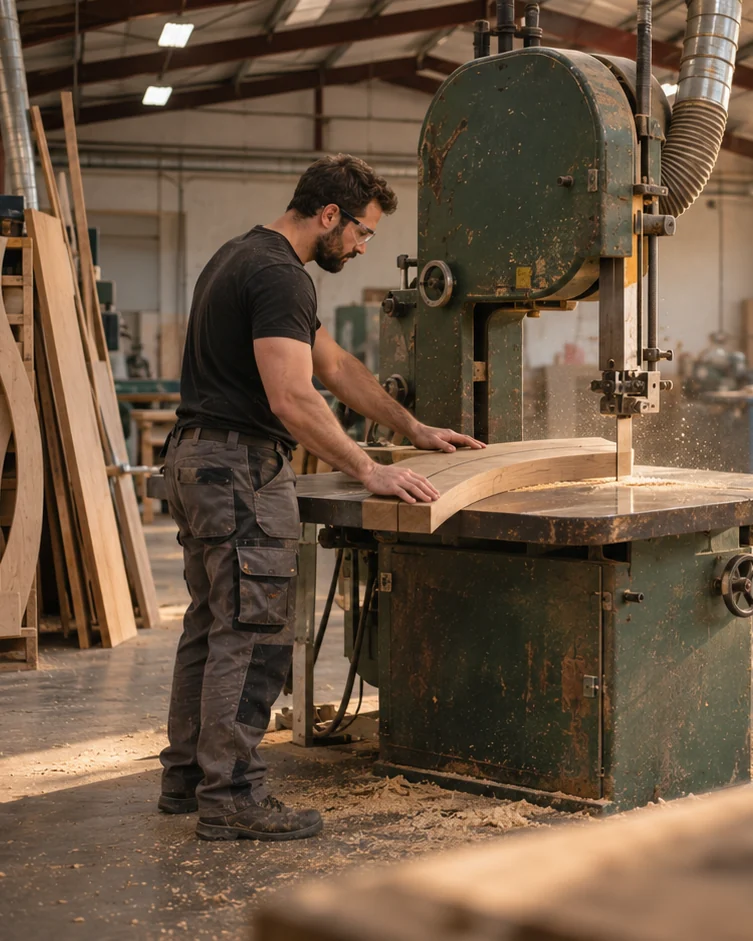
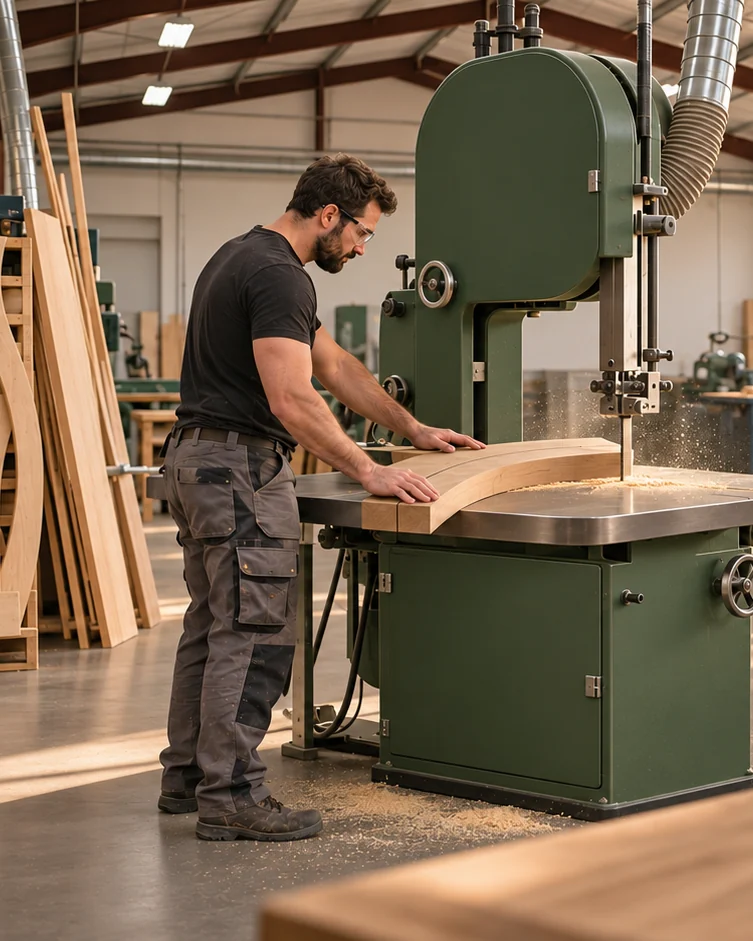
Tømrer: billedformer (brædder, forskudt, høvlspån, skråsnit) og nye værkstedsfotos på Om, Ydelser og Kontakt

diff --git a/app/toemrer/toemrer.css b/app/toemrer/toemrer.css
@@ -2051,3 +2051,127 @@ main:not(:has(.tm-afslutning)) + .tm-footer .tm-footer-gitter {
     transition: none !important;
   }
 }
+
+/* Kontakt: bredt værkstedsfoto under formularen (Emil 25. nov.) */
+.tm-kontakt-foto {
+  margin-top: clamp(48px, 7vw, 104px);
+  aspect-ratio: 16 / 7;
+}
+
+.tm-kontakt-foto > img {
+  object-position: 50% 30%;
+}
+
+@media (max-width: 760px) {
+  .tm-kontakt-foto {
+    aspect-ratio: 4 / 3;
+  }
+
+  .tm-kontakt-foto > img {
+    object-position: 62% 30%;
+  }
+}
+
+/* Ydelser, mindre opgaver: listen i to kolonner til venstre og værkstedsfotoet til højre (Emil 25. nov.) */
+.tm-ogsaa-gitter {
+  display: grid;
+  grid-template-columns: repeat(12, 1fr);
+  gap: 40px 24px;
+  align-items: start;
+}
+
+.tm-ogsaa-gitter .tm-ogsaa {
+  grid-column: 1 / 8;
+  grid-template-columns: repeat(2, 1fr);
+}
+
+.tm-ogsaa-foto {
+  grid-column: 9 / 13;
+  aspect-ratio: 4 / 5;
+}
+
+@media (max-width: 900px) {
+  .tm-ogsaa-gitter .tm-ogsaa,
+  .tm-ogsaa-foto {
+    grid-column: 1 / -1;
+  }
+
+  .tm-ogsaa-foto {
+    aspect-ratio: 4 / 3;
+  }
+}
+
+@media (max-width: 700px) {
+  .tm-ogsaa-gitter .tm-ogsaa {
+    grid-template-columns: 1fr;
+  }
+}
+
+/* Billedformer på de store billeder (Emils valg 25. nov.): brædder på hero-videoen, forskudt snit på Om-fotoet,
+   liggende høvlspån på værkstedet og skråsnit på Kontakt-fotoet. Gitre og før/efter-skyderen er stadig firkantede.
+   Skitser af alle 18 former ligger i Kunder/design skabeloner/billedformer. */
+
+/* Tre forskudte brædder med luft imellem. Lavet som maske, så heroens åbne-animation (clip-path) stadig virker. */
+.tm-form-braedder {
+  --brat: 31.6%;
+  --hoejde: 92%;
+  background: none;
+}
+
+/* Masken sidder på selve videoen/fotoet, så skiltet og pauseknappen ikke bliver skåret over */
+.tm-form-braedder > video,
+.tm-form-braedder > picture > img,
+.tm-form-braedder > img {
+  -webkit-mask:
+    linear-gradient(#000 0 0) left bottom / var(--brat) var(--hoejde) no-repeat,
+    linear-gradient(#000 0 0) center top / var(--brat) var(--hoejde) no-repeat,
+    linear-gradient(#000 0 0) right bottom / var(--brat) var(--hoejde) no-repeat;
+  mask:
+    linear-gradient(#000 0 0) left bottom / var(--brat) var(--hoejde) no-repeat,
+    linear-gradient(#000 0 0) center top / var(--brat) var(--hoejde) no-repeat,
+    linear-gradient(#000 0 0) right bottom / var(--brat) var(--hoejde) no-repeat;
+}
+
+/* Mobil: brædderne er smalle, så skiltet ligger på tværs i bunden og pauseknappen rykker op i højre bræt */
+@media (max-width: 760px) {
+  .tm-form-braedder .tm-hero-skilt {
+    left: 50%;
+    bottom: 12px;
+    max-width: none;
+    transform: translateX(-50%);
+    white-space: nowrap;
+    background: var(--hvid);
+  }
+
+  .tm-form-braedder .tm-videoknap {
+    top: calc(8% + 12px);
+    bottom: auto;
+  }
+}
+
+/* To halvdele skåret over på skrå og skubbet lidt fra hinanden. Linjen mellem de to dele går frem og tilbage ad samme vej, så den ikke kan ses. */
+.tm-form-forskudt {
+  border-radius: 0;
+  clip-path: polygon(0 0, 59.53% 0, 38.53% 94%, 0 94%, 0 0, 61.47% 6%, 100% 6%, 100% 100%, 40.47% 100%, 61.47% 6%, 0 0);
+}
+
+/* Høvlspån: den store bue sidder øverst til højre */
+.tm-form-hoevlspaan {
+  border-radius: 0 46% 0 0 / 0 62% 0 0;
+}
+
+/* Høvlspån lagt ned: den store bue sidder nederst til højre */
+.tm-form-hoevlspaan-liggende {
+  border-radius: 0 0 46% 0 / 0 0 62% 0;
+}
+
+.tm-form-skraasnit {
+  border-radius: 0;
+  clip-path: polygon(7% 0, 100% 0, 93% 100%, 0 100%);
+}
+
+@media (max-width: 760px) {
+  .tm-form-skraasnit {
+    clip-path: polygon(11% 0, 100% 0, 89% 100%, 0 100%);
+  }
+}

diff --git a/lib/toemrer.ts b/lib/toemrer.ts
@@ -118,10 +118,11 @@ export const foerEfter = [
   { titel: "Køkken", foer: "koekken-foer.jpg", efter: "koekken-efter.jpg", tekst: "Køkken fra firserne skiftet til fronter og bordplade i lys eg." },
 ];
 
-export const projekter = [
-  { titel: "Reol og bænk under skråvindue", type: "Snedkerarbejde", sted: "Silkeborg", aar: 2026, billede: "projekt-1.jpg" },
-  { titel: "Nyt egetræsgulv i stue", type: "Gulv", sted: "Them", aar: 2026, billede: "projekt-2.jpg" },
-  { titel: "Carport i sort træ", type: "Udendørs", sted: "Sejs", aar: 2025, billede: "projekt-3.jpg" },
+// form: valgfri billedform (klassen tm-form-<navn> i toemrer.css). Uden form er billedet firkantet med runde hjørner.
+export const projekter: { titel: string; type: string; sted: string; aar: number; billede: string; form?: string }[] = [
+  { titel: "Reol og bænk under skråvindue", type: "Snedkerarbejde", sted: "Silkeborg", aar: 2026, billede: "projekt-1.jpg", form: "hoevlspaan" },
+  { titel: "Nyt egetræsgulv i stue", type: "Gulv", sted: "Them", aar: 2026, billede: "projekt-2.jpg", form: "braedder" },
+  { titel: "Carport i sort træ", type: "Udendørs", sted: "Sejs", aar: 2025, billede: "projekt-3.jpg", form: "skraasnit" },
   { titel: "Trappe med åbne trin i eg", type: "Snedkerarbejde", sted: "Virklund", aar: 2025, billede: "projekt-4.jpg" },
   { titel: "Nyt tag på parcelhus", type: "Tag", sted: "Kjellerup", aar: 2025, billede: "projekt-5.jpg" },
   { titel: "Havestue med glasparti", type: "Tilbygning", sted: "Silkeborg", aar: 2024, billede: "projekt-6.jpg" },

diff --git a/app/toemrer/page.tsx b/app/toemrer/page.tsx
@@ -50,7 +50,7 @@ export default function ToemrerForside() {
               </Link>
             </div>
           </div>
-          <div className="tm-hero-medie tm-billede">
+          <div className="tm-hero-medie tm-billede tm-form-braedder">
             {heroVideo ? (
               <HeroVideo src={heroVideo} plakat={heroSrc} />
             ) : (
@@ -136,7 +136,7 @@ export default function ToemrerForside() {
               ))}
             </div>
           </div>
-          <div className="tm-om-foto tm-billede" data-vis>
+          <div className="tm-om-foto tm-billede tm-form-forskudt" data-vis>
             <Foto fil={omFirmaet.billede} alt="Tømrermesteren i værkstedet" tone="valnoed" />
           </div>
         </div>
@@ -166,7 +166,7 @@ export default function ToemrerForside() {
           <div className="tm-galleri">
             {projekter.slice(0, 4).map((p, n) => (
               <figure key={p.titel} className="tm-projekt" data-vis style={d(n % 2)}>
-                <div className="tm-billede tm-billede-4-3">
+                <div className={`tm-billede tm-billede-4-3${p.form ? ` tm-form-${p.form}` : ""}`}>
                   <Foto fil={p.billede} alt={p.titel} />
                 </div>
                 <figcaption>

diff --git a/app/toemrer/kontakt/page.tsx b/app/toemrer/kontakt/page.tsx
@@ -3,6 +3,7 @@ import DemoRing from "@/components/toemrer/DemoRing";
 import KontaktFormular from "@/components/toemrer/KontaktFormular";
 import { Kursiv } from "@/components/toemrer/Tekst";
 import { firma, kontaktEmner, sider } from "@/lib/toemrer";
+import Foto from "@/components/toemrer/Foto";
 
 export const metadata: Metadata = { title: "Kontakt" };
 
@@ -60,6 +61,12 @@ export default async function Kontakt({ searchParams }: { searchParams: Promise<
           </div>
           <div className="tm-kontakt-form tm-ind" style={i(3)}>
             <KontaktFormular emner={kontaktEmner} forvalgt={emne} />
+          </div>
+        </div>
+        {/* Bredt værkstedsfoto under formularen (Emil 25. nov.) */}
+        <div className="tm-indhold">
+          <div className="tm-billede tm-kontakt-foto tm-form-skraasnit" data-vis>
+            <Foto fil="kontakt.jpg" alt="Tømrer stemmer en tap ud i en egebjælke" />
           </div>
         </div>
       </section>

diff --git a/app/toemrer/ydelser/page.tsx b/app/toemrer/ydelser/page.tsx
@@ -52,14 +52,20 @@ export default function Ydelser() {
               </h2>
             </div>
           </div>
-          <ul className="tm-ogsaa" data-vis>
-            {ogsaa.map((o, n) => (
-              <li key={o}>
-                {o}
-                <span>0{n + 1}</span>
-              </li>
-            ))}
-          </ul>
+          {/* Listen til venstre, værkstedet til højre (Emil 25. nov.) */}
+          <div className="tm-ogsaa-gitter">
+            <ul className="tm-ogsaa" data-vis>
+              {ogsaa.map((o, n) => (
+                <li key={o}>
+                  {o}
+                  <span>0{n + 1}</span>
+                </li>
+              ))}
+            </ul>
+            <div className="tm-billede tm-ogsaa-foto tm-form-hoevlspaan-liggende" data-vis>
+              <Foto fil="vaerksted.jpg" alt="Værkstedet med maskiner og stablet træ" />
+            </div>
+          </div>
         </div>
       </section>
 

diff --git a/app/toemrer/projekter/page.tsx b/app/toemrer/projekter/page.tsx
@@ -32,7 +32,7 @@ export default function Projekter() {
           <div className="tm-galleri">
             {projekter.map((p, n) => (
               <figure key={p.titel} className="tm-projekt" data-vis style={{ ["--d" as string]: n % 2 }}>
-                <div className="tm-billede tm-billede-4-3">
+                <div className={`tm-billede tm-billede-4-3${p.form ? ` tm-form-${p.form}` : ""}`}>
                   <Foto fil={p.billede} alt={p.titel} />
                 </div>
                 <figcaption>
